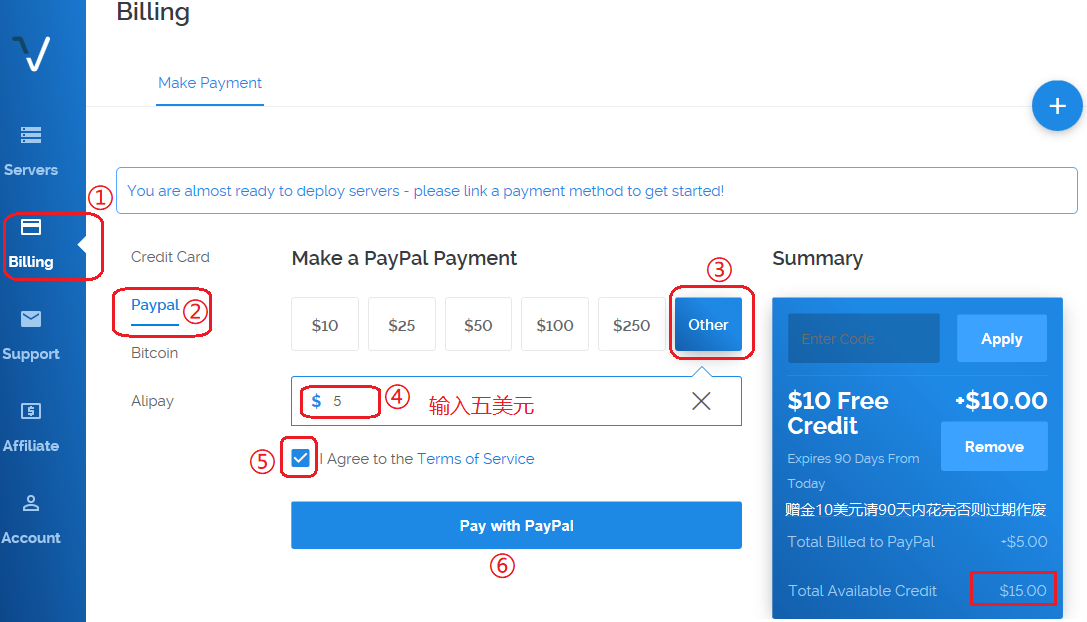
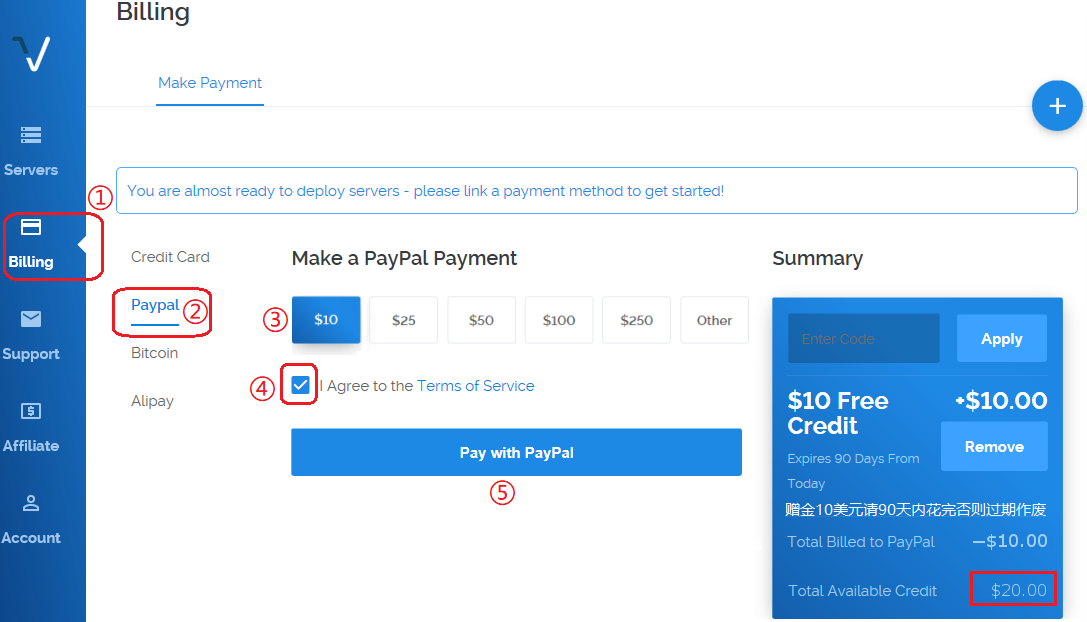
m

diff --git a/vultr.md b/vultr.md
@@ -12,9 +12,9 @@
 
 1. 在 [Vultr](https://www.vultr.com/?ref=7492090) 上注册帐户并登录.
 
-2. 如果你新注册的账号, vultr 会有 10 美元的赠金. 当然你得首先 `绑定信用卡` 或者 `充值5美元` 才能到账. 
-   作者不愿随意泄漏自己的信用卡信息给商家, 因此使用`贝宝`充值.
-   下图是通过 `paypal` 充值的图文过程.
+2. 如果你新注册的账号, vultr 会有 $10 美元的赠金. 当然你得首先 `充值 $10 美元` 才能到账. 
+   充值的方式有 `信用卡`, `Paypal`, `支付宝`(Alipay) 等等, 
+   作者使用 `贝宝` (paypal) 充值. 下图是通过 `paypal` 充值的图文过程.
 
    注意, 赠金必须在90天内花完, 否则过期作废.
 
